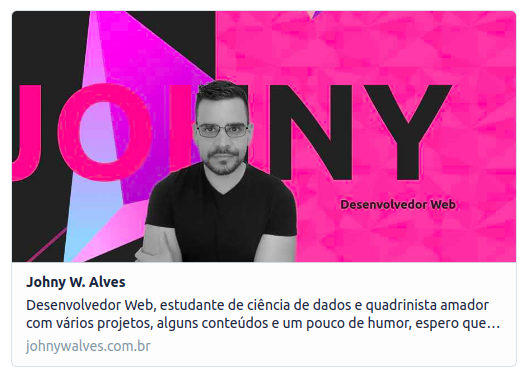
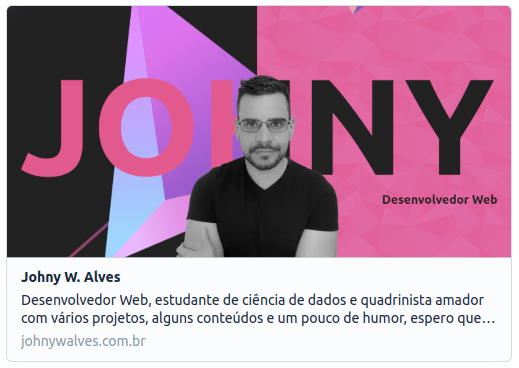
:bug: Corrigi padrão de cores

diff --git a/src/vectors/TriangleNeon.jsx b/src/vectors/TriangleNeon.jsx
@@ -21,7 +21,7 @@ const TriangleNeon = (props) => (
         gradientTransform="translate(2821.5 -436.99)"
         gradientUnits="userSpaceOnUse"
       >
-        <stop stopColor="#e352a8" offset="0" />
+        <stop stopColor="#e0138c" offset="0" />
         <stop stopColor="#8857c3" offset=".65" />
         <stop stopColor="#44b5ef" offset="1" />
       </linearGradient>

diff --git a/src/styles/general.jsx b/src/styles/general.jsx
@@ -49,7 +49,7 @@ const GeneralStyles = createGlobalStyle`
 
   :root {
     --highlight: #e0138c;
-    --highlight-dark: #e352a8;
+    --highlight-dark: #e0138c;
     --highlight-light: #ff89fd;
     --highlight-lighter: #ff6bfd;
     --highlight-lightest: #fdbafd;

diff --git a/posts/2022-09-28-Construindo_Layout_2.0.md b/posts/2022-09-28-Construindo_Layout_2.0.md
@@ -43,7 +43,7 @@ Acabei me empolgando com os triângulos mudando as formas mais arredondas para c
 
 ![Área de habilidades com background com vários triângulos](/figures/layout_triangles.png "Porfólio com decoração de triângulos")
 
-Apaixonado pelos triângulos e as cores recomendadas <span style="background-color: #e352a8; color: var(--white);font-weight:700;padding: 2px 4px;border-radius:4px;">#e352a8</span>, <span style="background-color: #8857c3; color: var(--white);font-weight:700;padding: 2px 4px;border-radius:4px;">#8857c3</span> e <span style="background-color: #44b5ef; color: var(--white);font-weight:700;padding: 2px 4px;border-radius:4px;">#44b5ef</span>, no processo de experimentação apareceu o efeito neon, abrindo a possibilidade de aloprar um pouco mais na área de projetos
+Apaixonado pelos triângulos e as cores recomendadas <span style="background-color: #e0138c; color: var(--white);font-weight:700;padding: 2px 4px;border-radius:4px;">#e0138c</span>, <span style="background-color: #8857c3; color: var(--white);font-weight:700;padding: 2px 4px;border-radius:4px;">#8857c3</span> e <span style="background-color: #44b5ef; color: var(--white);font-weight:700;padding: 2px 4px;border-radius:4px;">#44b5ef</span>, no processo de experimentação apareceu o efeito neon, abrindo a possibilidade de aloprar um pouco mais na área de projetos
 
 ## Projetos
 
